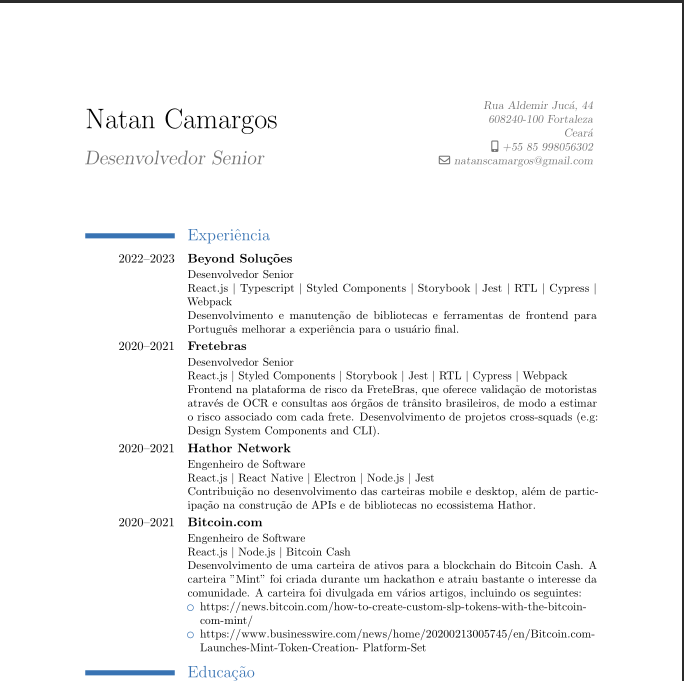
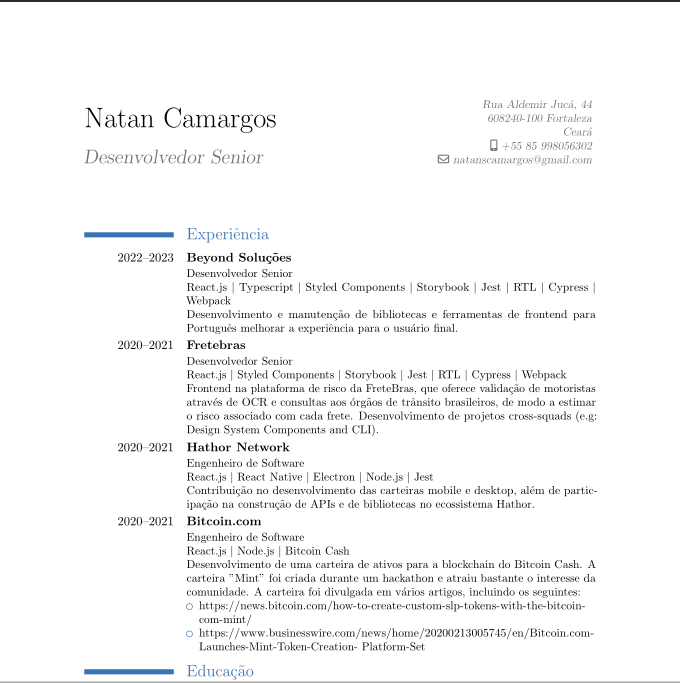
update images

diff --git a/README.md b/README.md
@@ -4,9 +4,9 @@
 ## Curriculum Vitae
 Natan's CV made in latex and html.
 
-[oops](./screenshot/1.png)
-[oops](./screenshot/2.png)
-[oops](./screenshot/3.png)
+![oops](./screenshot/1.png)
+![oops](./screenshot/2.png)
+![oops](./screenshot/3.png)
 
 ### Curriculum Vitae latex
 #### Version 0
